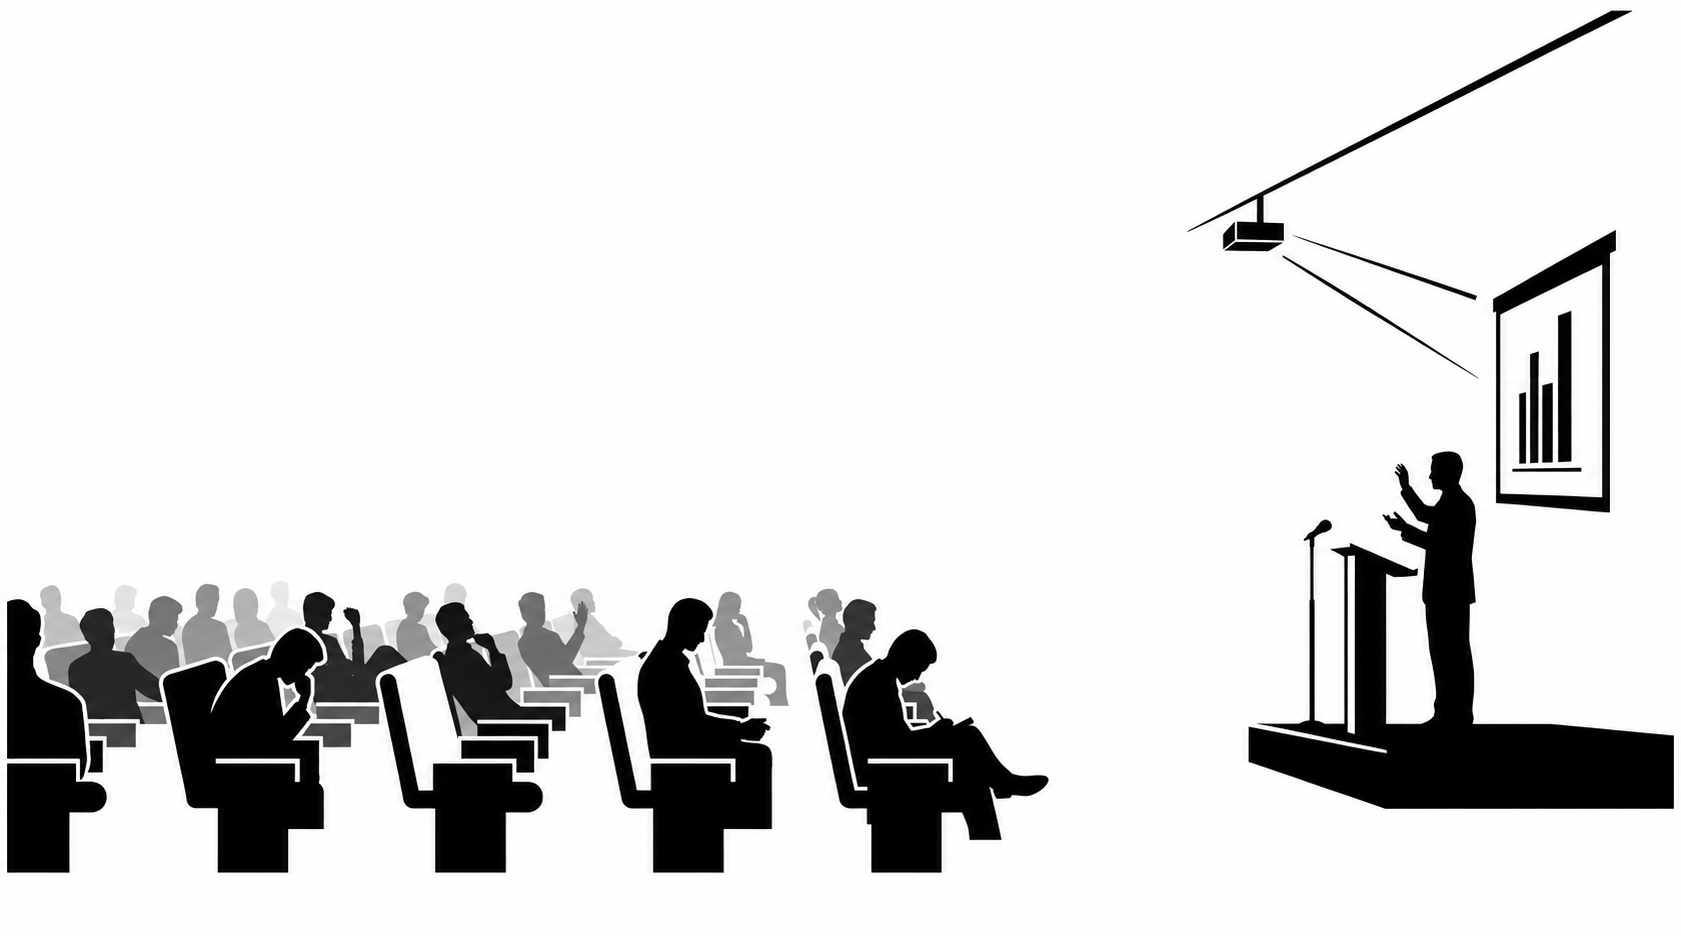
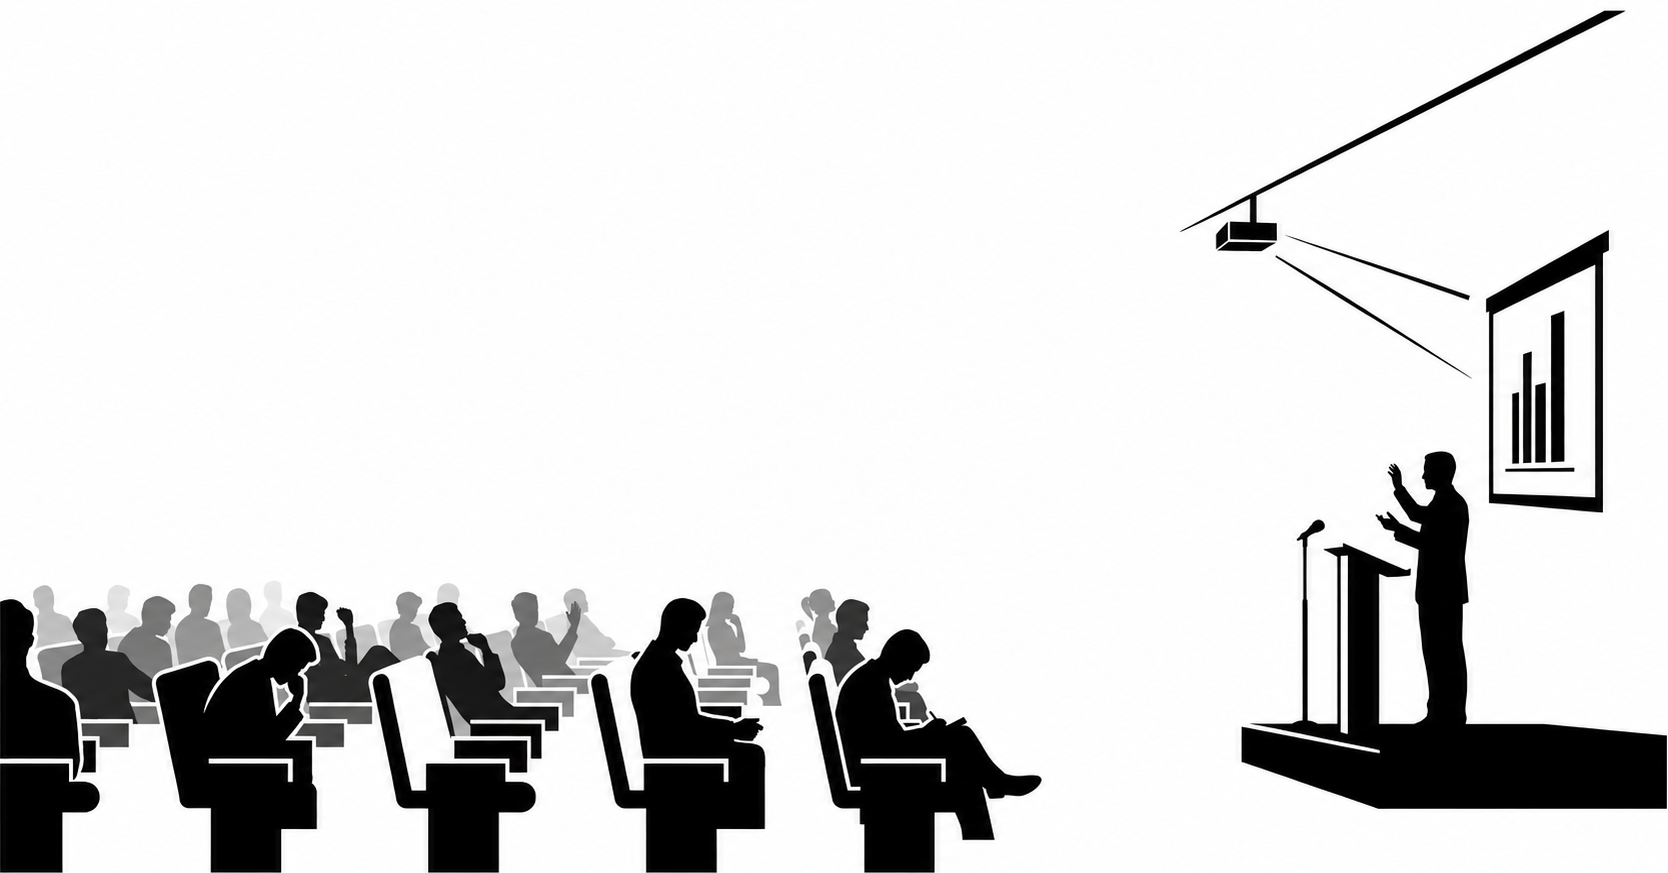
style: crop illustration edges, full width flush to edges and bottom

diff --git a/src/styles.css b/src/styles.css
@@ -10,13 +10,13 @@ h1, h2, h3, p { margin: 0; }
 .date { color: var(--muted); font-size: .9rem; margin-top: 4px; }
 
 /* landing */
-.landing { position: relative; padding-bottom: min(40vh, 56vw) !important; min-height: 100vh; display: flex; flex-direction: column; align-items: center; justify-content: center; gap: 18px; padding: 24px; text-align: center; }
+.landing { position: relative; padding-bottom: min(55vh, 52.4vw) !important; min-height: 100vh; display: flex; flex-direction: column; align-items: center; justify-content: center; gap: 18px; padding: 24px; text-align: center; }
 .landing h1 { font-size: clamp(2rem, 5vw, 3.4rem); font-weight: 700; }
 .landing h1 span { color: var(--year); }
 .qr { background: #fff; padding: 18px; border-radius: 20px; margin: 12px 0; box-shadow: 0 20px 50px #002e6c2e; transition: transform .2s; display: block; line-height: 0; max-width: 100%; }
 .qr:hover { transform: scale(1.03); }
 .qr svg { max-width: 100%; height: auto; }
-.landing-art { position: absolute; left: 0; bottom: 0; width: 100%; height: auto; max-height: 40vh; object-fit: contain; object-position: bottom; mix-blend-mode: multiply; pointer-events: none; user-select: none; }
+.landing-art { position: absolute; left: 0; bottom: 0; width: 100%; height: auto; max-height: 55vh; object-fit: cover; object-position: left bottom; mix-blend-mode: multiply; pointer-events: none; user-select: none; display: block; }
 .hint { color: var(--muted); letter-spacing: .05em; }
 
 /* agenda */
